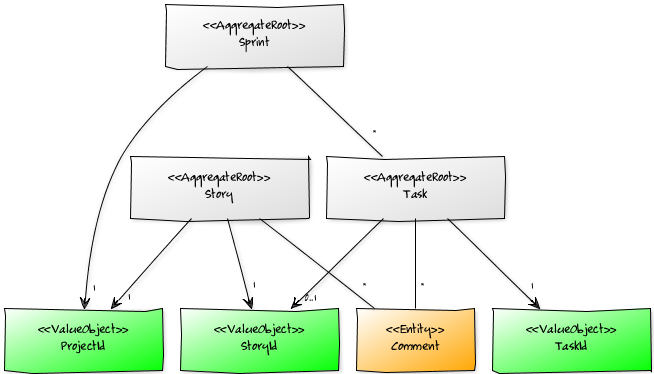
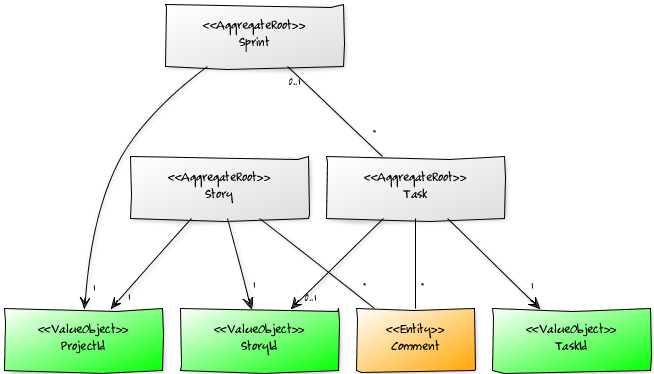
Polishing

diff --git a/doc/article/tbd-par-la-pratique-03.5-notre domaine.md b/doc/article/tbd-par-la-pratique-03.5-notre domaine.md
@@ -343,6 +343,9 @@ modifiée et gérée directement. Il en est de même pour les `Task` au sein d'u
 considérer les `Story` et les `Task` comme des entités à part entière et même manipulables directement, c'est à
 dire des `AggregateRoot`.
 
+Un `Sprint` est rattaché à un projet (via une référence à `ProjectId`). Il en est de même pour les `Story`.
+Une `Task` peut être rattachée à une `Story` et peut aussi être rattachée à un `Sprint`
+
 ![Story, Sprint and Task Overview](https://github.com/Arnauld/CQRS-Ramblings/blob/master/doc/images/overall-domain-story-sprint-task-75%25-yuml.png?raw=true)
 
 Interessons-nous rapidement à la création et aux méthodes de manipulation de nos entités.
